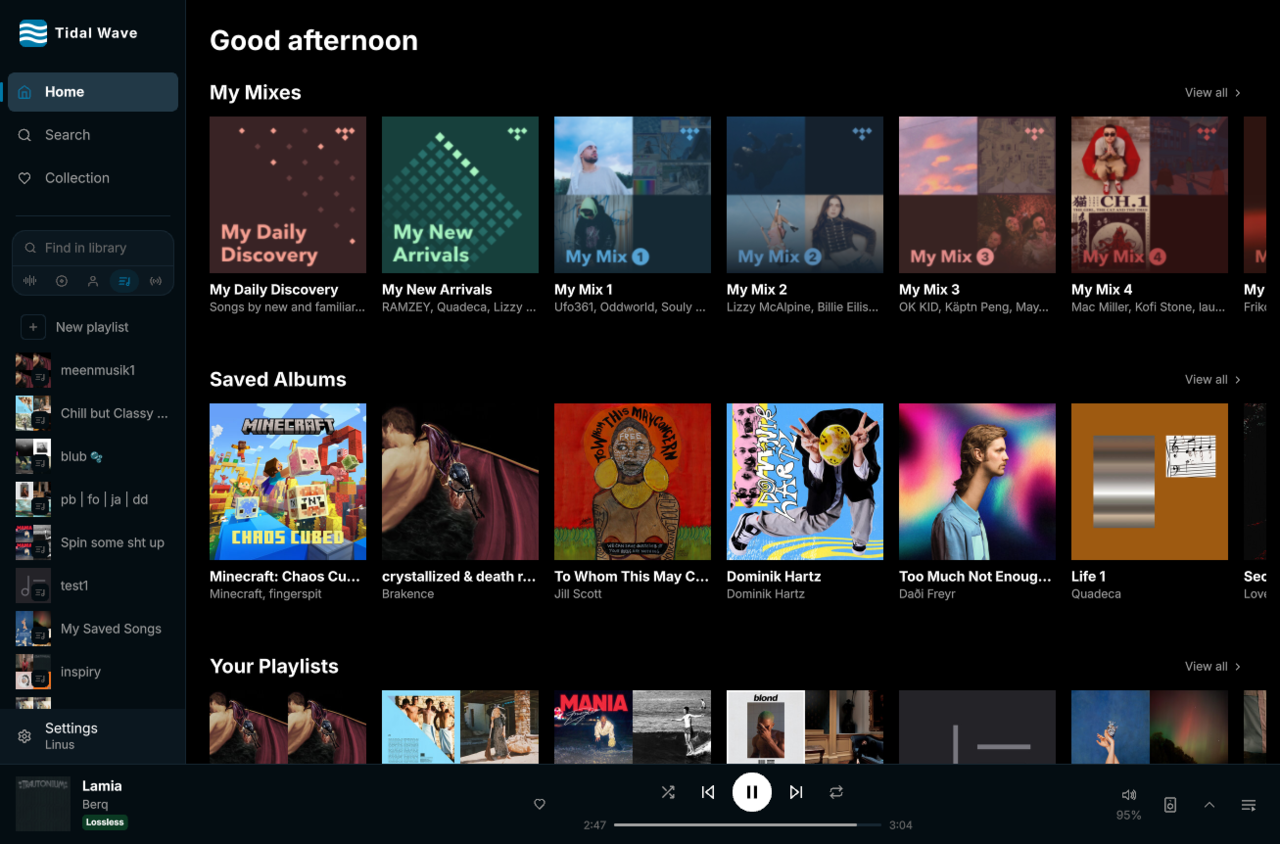
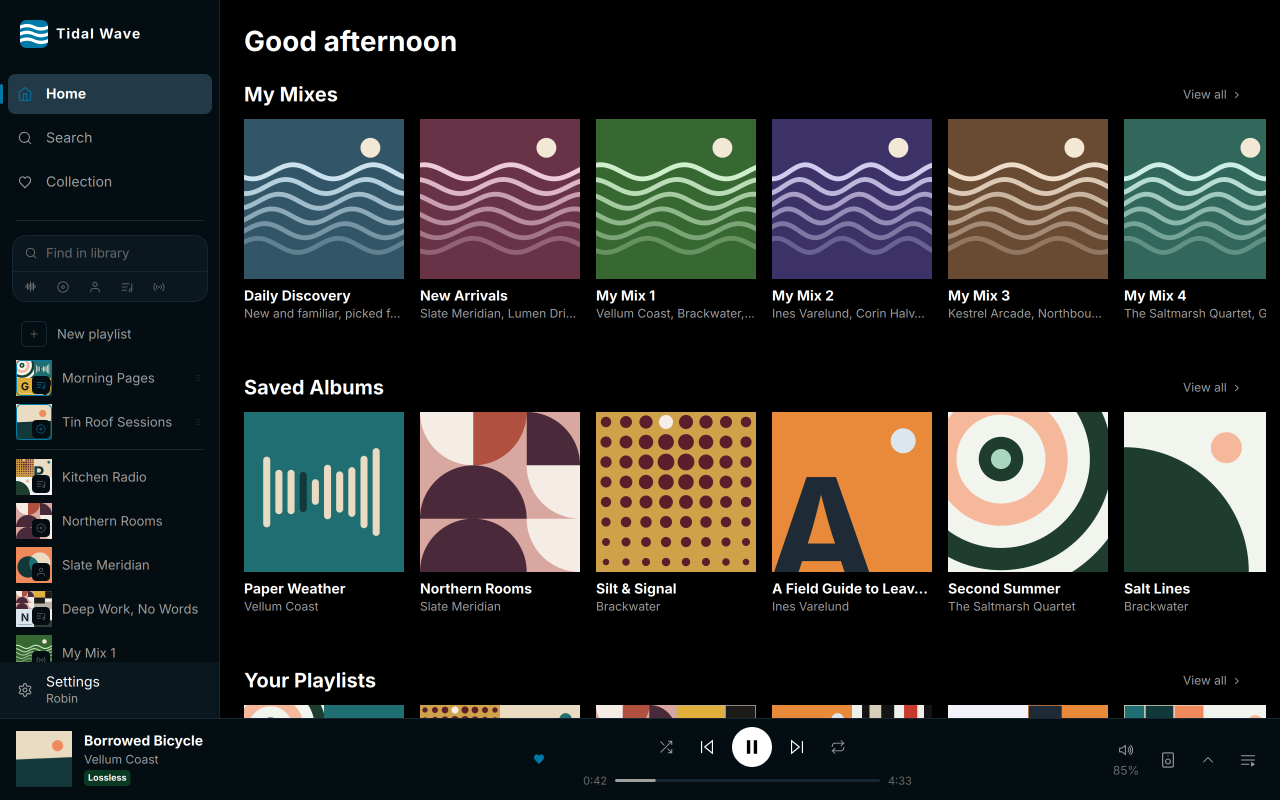
docs: the screenshots show an invented library, and the README shows one
The five pictures in assets/ are now the ones tools/refresh-screenshots.sh
draws from the invented artists and albums in tests/visual/store, so nothing
in them belongs to a real account or a real record. They are also a quarter
of the size.

The README shows the home screen and folds the other four away. The store
metadata still lists all five.

diff --git a/README.md b/README.md
@@ -17,10 +17,13 @@ you happen to use.
 
 ![Tidal Wave home screen](assets/screenshot_home.png)
 
-Your collection, an album, the now playing view and search:
+<details>
+<summary>More screenshots: collection, album, now playing, search</summary>
 
 <img src="assets/screenshot_collection.png" width="49%"> <img src="assets/screenshot_album.png" width="49%">
 <img src="assets/screenshot_nowplaying.png" width="49%"> <img src="assets/screenshot_search.png" width="49%">
+
+</details>
 
 ## Features
 
